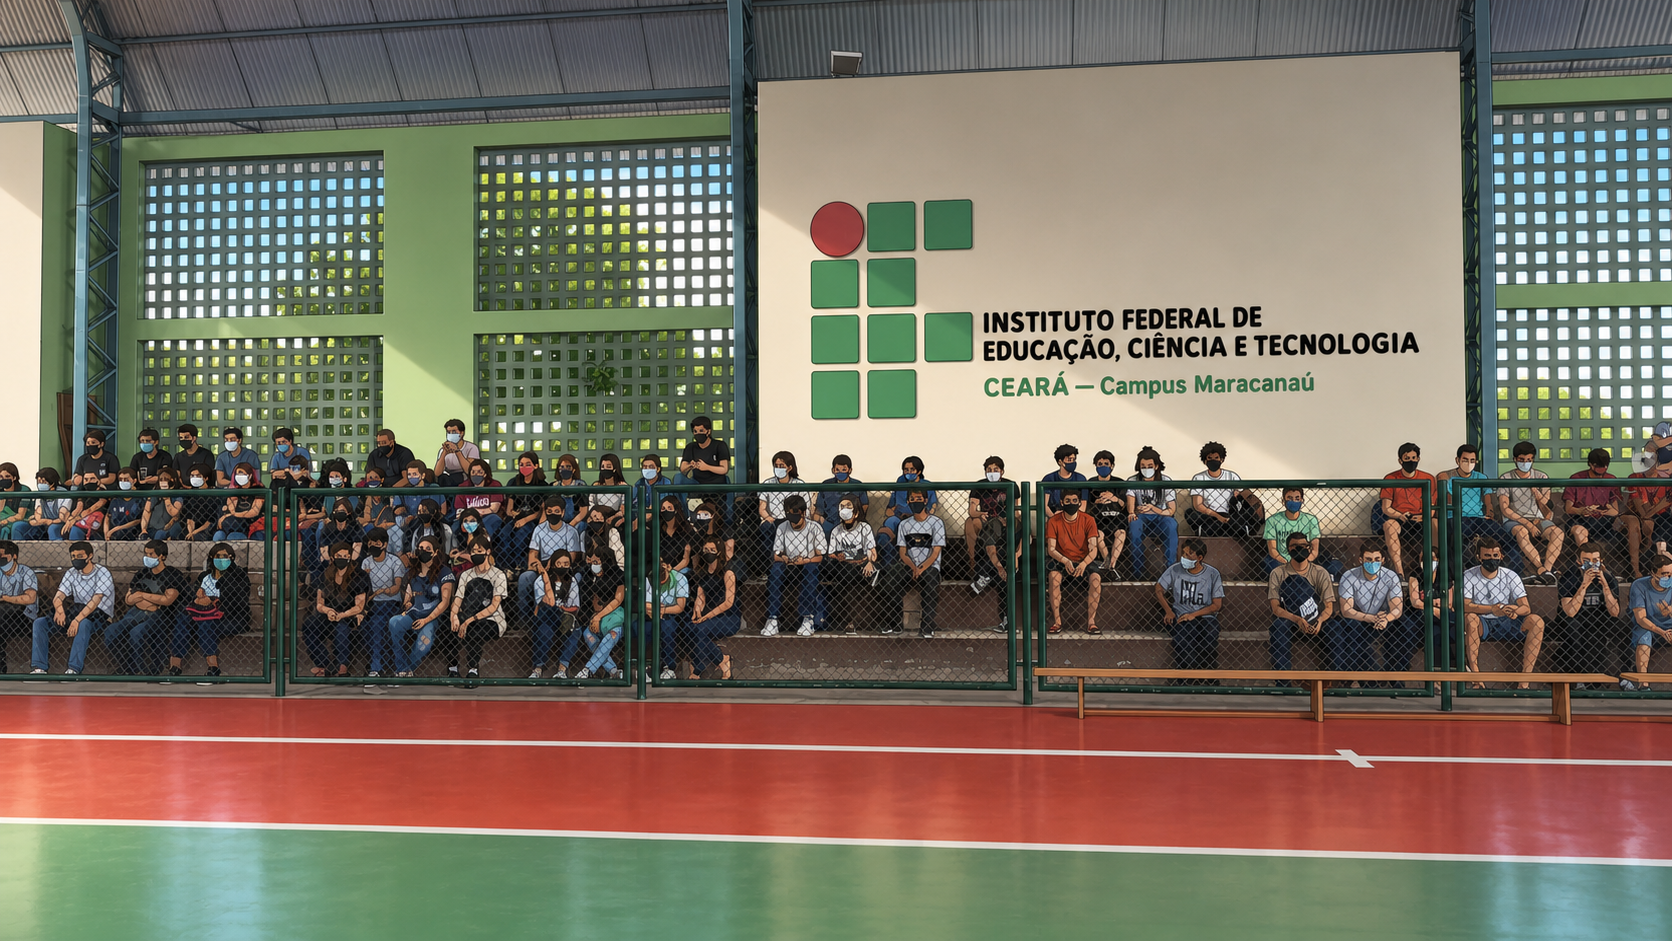
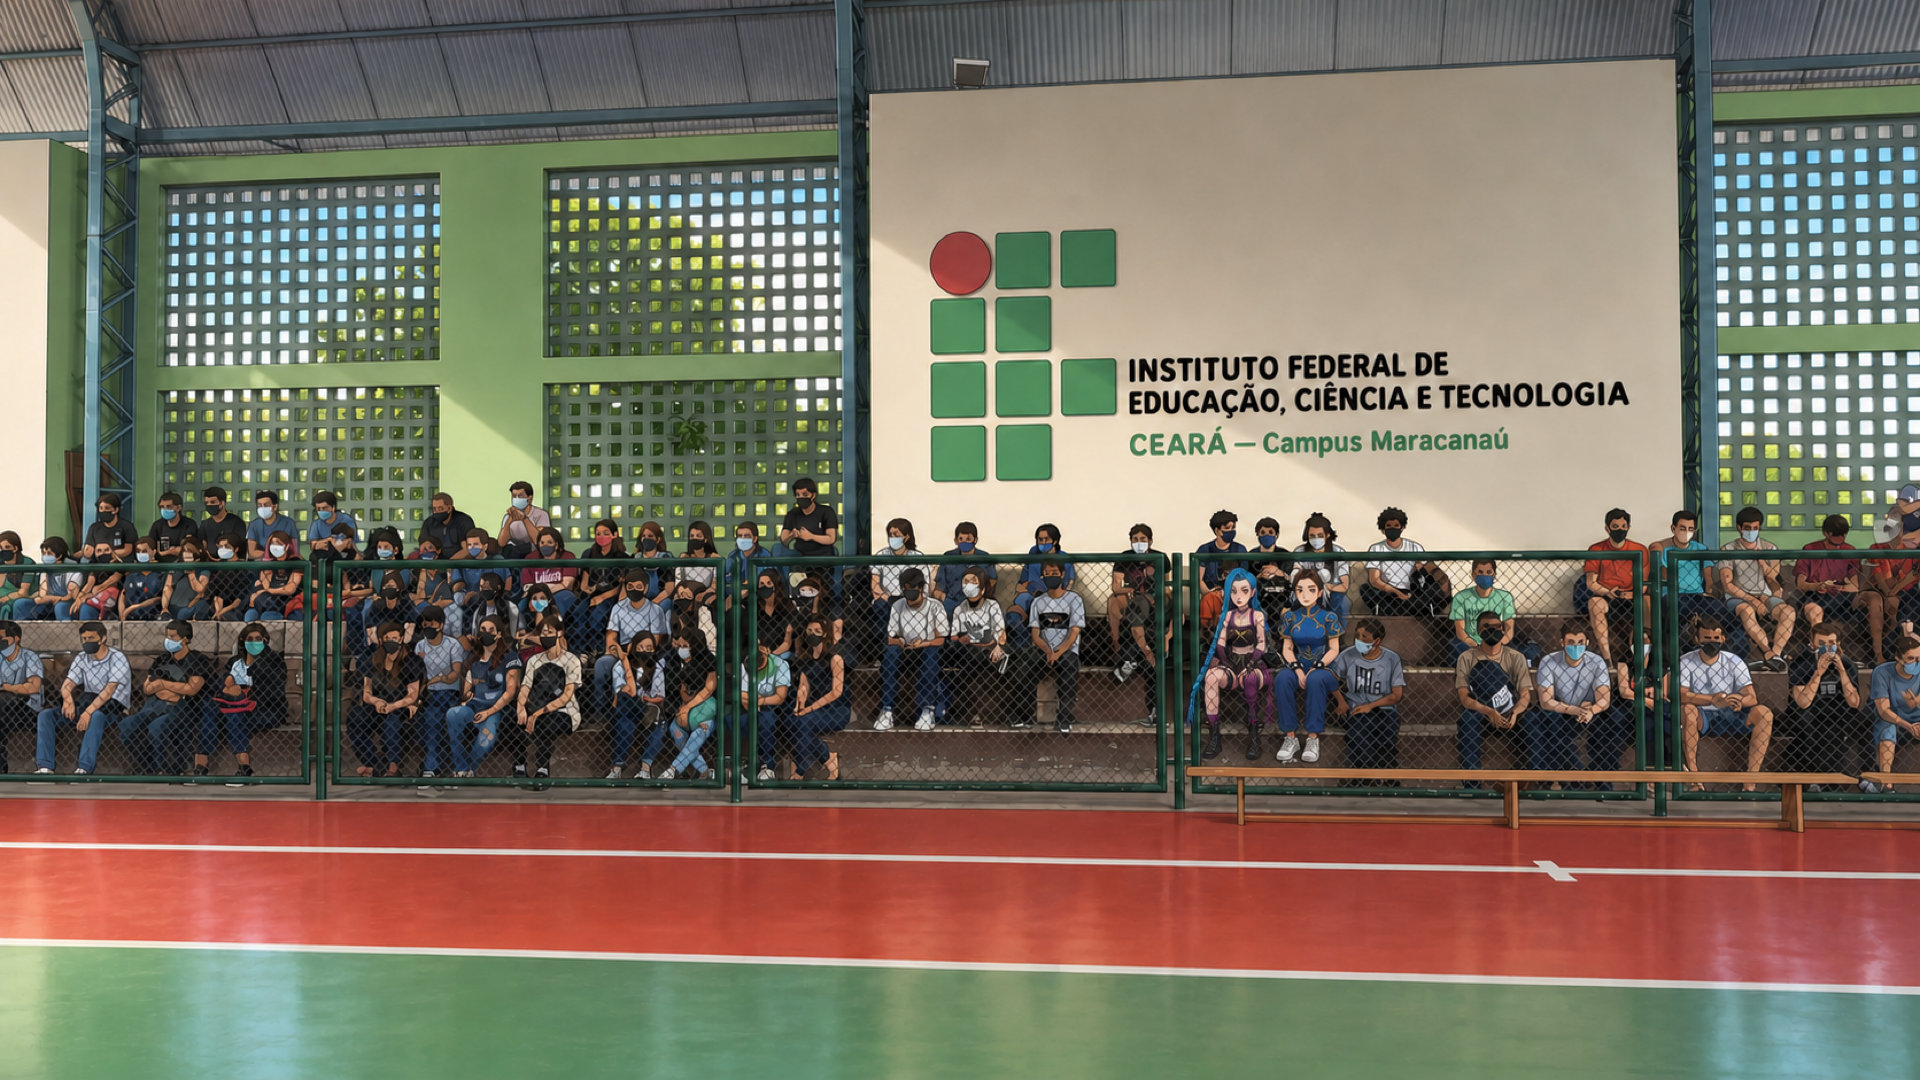
Atualiza cenários, cenas e documentação

diff --git a/README.md b/README.md
@@ -1,0 +1,102 @@
+# Sinais do Maracanaú
+
+![Tela inicial de Sinais do Maracanaú](images/menu/elenco_campus.png)
+
+**Sinais do Maracanaú** é uma visual novel educativa ambientada no IFCE Campus Maracanaú. O jogador acompanha estudantes em uma visita guiada pelo campus, conhece serviços e espaços importantes e aprende sinais introdutórios de Libras por meio de diálogos, vídeos e desafios interativos.
+
+> Versão 3.0 · Desenvolvido com Ren'Py · Conteúdo em português · Recursos de Libras disponíveis offline
+
+## Sobre o projeto
+
+O jogo transforma a recepção de novos alunos em uma experiência narrativa e acessível. Ao longo da jornada, o jogador toma decisões, visita diferentes locais do campus, registra sinais no caderno e recebe um relatório de desempenho ao concluir a experiência.
+
+A história combina cenários inspirados em espaços reais do IFCE com ilustrações em estilo anime. Entre as cenas estão a chegada da jardineira, a entrada pela catraca, corredores, laboratórios, quadra, biblioteca e as áreas interna e externa do refeitório.
+
+## Principais recursos
+
+- Narrativa interativa com escolhas e consequências.
+- Cenários do IFCE Campus Maracanaú recriados em estilo anime.
+- Painel de Libras integrado aos diálogos.
+- Vídeos locais em WebM, disponíveis sem conexão com a internet.
+- Caderno para revisar os sinais encontrados durante a história.
+- Mapa de progresso com oito locais do campus.
+- Desafios visuais e perguntas de vocabulário.
+- Sistema de conquistas e easter eggs interativos.
+- Relatório final com decisões corretas, locais visitados, sinais e conquistas.
+- Recursos de acessibilidade, incluindo texto legível, controles de repetição e apoio visual.
+
+## Destaques da experiência
+
+### Uma recepção guiada
+
+Alex e outros personagens apresentam o campus, explicam rotinas importantes e ajudam os calouros a se orientar. A jardineira é apresentada logo no início, com informações sobre o transporte entre o metrô e o campus e a recomendação de consultar os horários nos avisos oficiais.
+
+### Aprendizado de Libras
+
+Cada conversa pode destacar sinais relevantes. O jogador assiste às demonstrações, repete os vídeos e reúne o conteúdo no caderno para consulta posterior.
+
+### Exploração e desafios
+
+As cenas incluem perguntas de interpretação, vocabulário e programação, além de atividades visuais que reforçam o conteúdo apresentado durante a visita.
+
+## Como executar
+
+### Pelo Ren'Py Launcher
+
+1. Instale o [Ren'Py](https://www.renpy.org/) 8.5.3 ou uma versão compatível.
+2. Clone este repositório:
+
+   ```bash
+   git clone https://github.com/Alewxdev/tour-ifce-maracanau.git
+   ```
+
+3. Abra o Ren'Py Launcher.
+4. Escolha **Adicionar projeto existente** e selecione a pasta clonada.
+5. Clique em **Iniciar projeto**.
+
+### Pela linha de comando
+
+No macOS ou Linux, com o SDK do Ren'Py instalado:
+
+```bash
+/caminho/para/renpy.sh .
+```
+
+Para executar a verificação estática do projeto:
+
+```bash
+/caminho/para/renpy.sh . lint
+```
+
+## Estrutura do projeto
+
+```text
+.
+├── audio/                 # Músicas e efeitos sonoros
+├── images/
+│   ├── campus/            # Cenários do campus
+│   ├── menu/              # Arte e elementos do menu
+│   └── personagens/       # Sprites dos personagens
+├── videos/                # Conteúdo local de Libras
+├── script.rpy             # Roteiro principal
+├── sistemas.rpy           # Mapa, caderno, desafios e conquistas
+├── screens.rpy            # Interfaces do jogo
+└── options.rpy            # Metadados e configurações do projeto
+```
+
+## Nota pedagógica e de acessibilidade
+
+O conteúdo de Libras deste projeto tem finalidade introdutória e educativa. Ele não substitui tradução profissional nem a atuação de intérpretes. Antes de uso institucional, recomenda-se a validação pedagógica final por uma pessoa surda fluente em Libras e pela comunidade envolvida.
+
+Os vídeos de sinais utilizam materiais do Signbank/UFSC conforme os créditos exibidos no próprio jogo, sob licença **CC BY-NC-SA 4.0**. Os demais códigos, imagens e recursos permanecem sujeitos às licenças e autorizações de seus respectivos autores.
+
+## Tecnologias
+
+- Ren'Py 8.5.3
+- Python (integrado ao Ren'Py)
+- Imagens PNG/JPEG
+- Vídeos WebM
+
+## Campus retratado
+
+Instituto Federal de Educação, Ciência e Tecnologia do Ceará — **IFCE Campus Maracanaú**.
